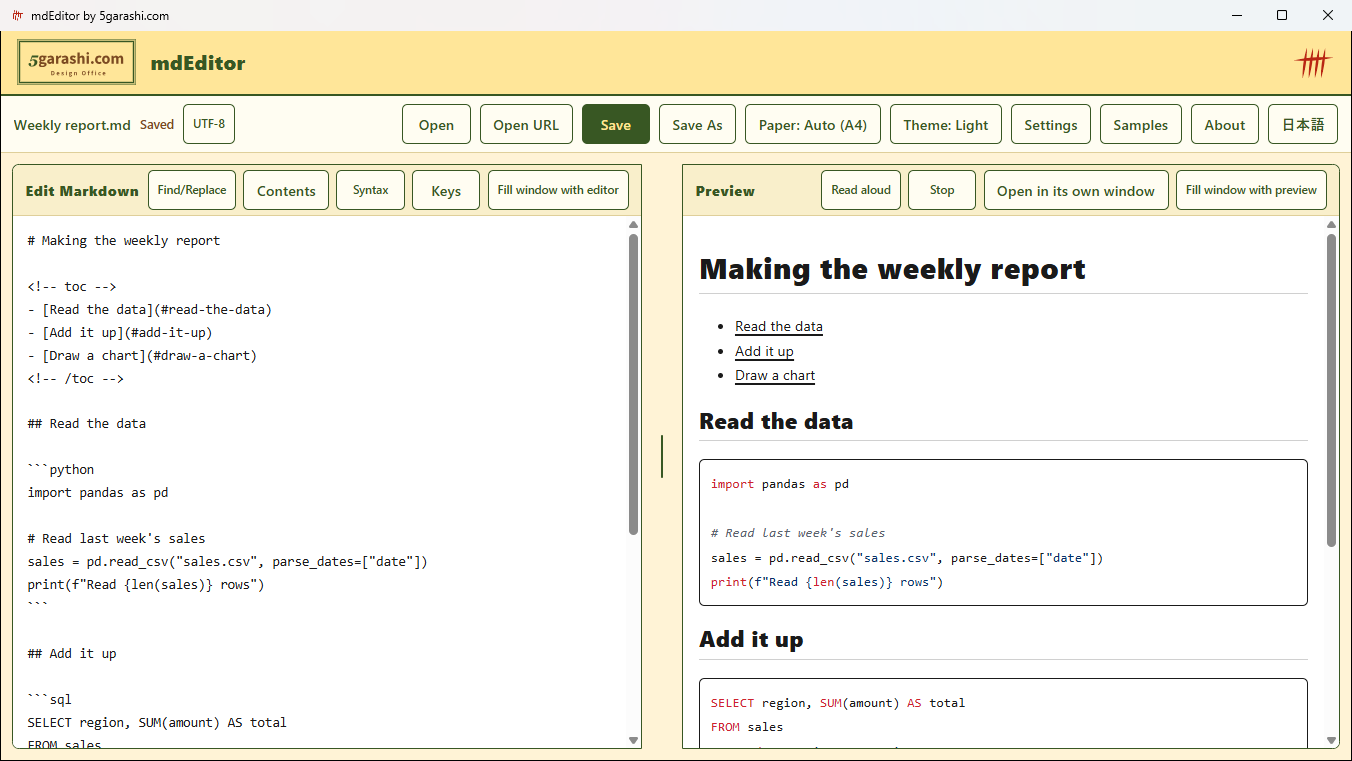
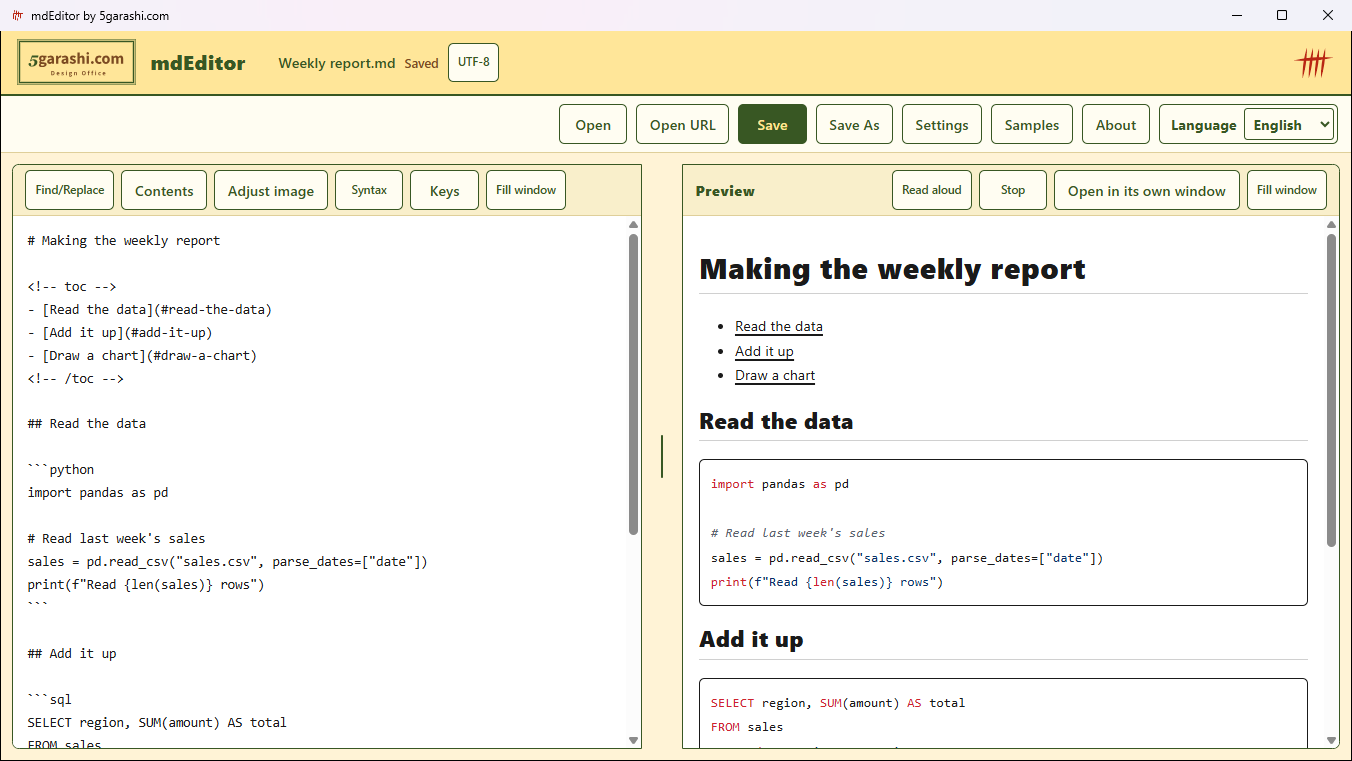
Retake screenshots in three languages and add zh-CN to the Store package
- docs/images: all screenshots retaken on the 1.0.15 screen (1366 x 768, 90% zoom),
  with Simplified Chinese versions (.zh-CN.png); 1-main now shows the 3D model of
  samples/diagram-test (21-1)
- Store manifest declares zh-CN; STORE-LISTING.md gains a Simplified Chinese section,
  1.0.15 items in What's new, and updated screenshot notes
- README.zh-CN.md uses the Chinese screenshots; 1-main captions mention the 3D model
- CHANGELOG notes the package language and the new screenshots

diff --git a/store/STORE-LISTING.md b/store/STORE-LISTING.md
@@ -1,6 +1,6 @@
 <!--
   File: STORE-LISTING.md
-  Description: Microsoft Store listing text (English and Japanese) and screenshot plan for mdEditor
+  Description: Microsoft Store listing text (English, Japanese, and Simplified Chinese) and screenshot plan for mdEditor
   Author: 5garashi.com Design Office
   Created: 2026-10-11
   License: MIT
@@ -53,21 +53,21 @@ Made for everyone
 Available in Japanese, English, and Simplified Chinese. Made by 5garashi.com Design Office. Open About in the app for the company, support, and privacy policy links.
 
 **What's new in this version:**
-- 3D models (text STL) turn with the mouse, and maps (GeoJSON, TopoJSON) are drawn offline. Allow it to load a detailed OpenStreetMap map.
-- GitHub-style Markdown: alerts, front matter shown as a list, math blocks, emoji short names, collapsible sections, and the HTML GitHub allows.
-- Videos in a document play in the preview.
+- Simplified Chinese: choose Japanese, English, or Chinese from the Language list.
+- New from clipboard: copy text or a picture in any app, press your key, and it opens as a new document.
+- Starts about twice as fast.
+- 3D models (text STL) turn with the mouse; maps (GeoJSON, TopoJSON) and Graphviz diagrams are drawn offline. Allow it to load a detailed OpenStreetMap map.
+- GitHub-style Markdown: alerts, front matter shown as a list, math blocks, emoji short names, collapsible sections, and the HTML GitHub allows. Videos in a document play too.
 - Code is colored for about 40 languages, and the colors stay in PDF, PNG, HTML, and Word.
 - Contents builds a table of contents from your headings; press it again to update.
-- Graphviz diagrams are drawn offline.
 - Open Word, HTML, web pages, e-mail, CSV, TSV, JSON, XML, Jupyter Notebooks, and images as Markdown.
-- Save As lists every format, including a ZIP for sharing: the document and its name_files folder, without files the document does not use.
+- Save As lists every format, including a ZIP for sharing the document with its name_files folder.
 - Drop or paste pictures into the editor.
-- Adjust image sets a picture's size and position (center, right, or with text flowing around it), written the way GitHub does.
-- A setting shows documents closer to GitHub, leaving out syntax only mdEditor has.
+- Adjust image sets a picture's size and position, written the way GitHub does.
+- A setting shows documents closer to GitHub.
 - Save As to another folder or name copies the name_files folder too and updates the links.
 - Drop a file on the editor to insert it, or outside to open it; Back to previous document returns to the one it replaced.
 - Internet images and videos load only when you allow them.
-- Choose the read-aloud language and voice.
 - mdEditor appears in Open with for the file types it supports.
 
 **Features (bullets):**
@@ -99,7 +99,7 @@ Available in Japanese, English, and Simplified Chinese. Made by 5garashi.com Des
 **Support contact:** https://github.com/5garashi/mdEditor/issues
 
 **Screenshots (1366 x 768, the Store minimum; English UI) with captions:**
-1. `docs/images/1-main.en.png` — Type Markdown on the left and the preview on the right updates at once, with diagrams, tables, and math.
+1. `docs/images/1-main.en.png` — Type Markdown on the left and the preview on the right updates at once. A 3D model written in STL turns when you drag it.
 2. `docs/images/2-dark.en.png` — Day and night palettes follow Windows, or choose one with the Theme button in Settings. Printing and PDF always use a white page.
 3. `docs/images/3-preview-window.en.png` — Put the preview on a second display to keep writing and reading apart. It scrolls with your editing.
 4. `docs/images/4-syntax.en.png` — Press F1 for the Markdown quick reference. Insert puts the example at the cursor.
@@ -165,21 +165,21 @@ The app's own logos (Start, taskbar, File Explorer) are in `store/assets/` and a
 日本語・英語・簡体字中国語に対応します。5garashi.com Design Office が作りました。会社紹介・サポート・プライバシーポリシーは、アプリの「このアプリについて」から開けます。
 
 **このバージョンの新機能:**
-- 3D モデル（テキスト形式の STL）をマウスで回して確かめられ、地図（GeoJSON・TopoJSON）をオフラインで描けます。許可すると、OpenStreetMap の詳しい地図も使えます。
-- GitHub と同じ書き方に対応しました（注意書き、項目の一覧として表示するフロントマター、数式のコードブロック、絵文字の短縮名、折りたたみ、GitHub が許している HTML）。
-- 文書の中の動画を、プレビューで再生できます。
+- 簡体字中国語に対応しました。「Language」の一覧で、日本語・英語・中国語を選べます。
+- 「クリップボードから新規作成」: ほかのアプリでテキストや画像をコピーしてから、設定したキーを押すと、新しい文書として開きます。
+- 起動がおよそ 2 倍速くなりました。
+- 3D モデル（テキスト形式の STL）をマウスで回して確かめられ、地図（GeoJSON・TopoJSON）と Graphviz の図をオフラインで描けます。許可すると、OpenStreetMap の詳しい地図も使えます。
+- GitHub と同じ書き方に対応しました（注意書き、項目の一覧として表示するフロントマター、数式のコードブロック、絵文字の短縮名、折りたたみ、GitHub が許している HTML）。文書の中の動画も再生できます。
 - 約 40 の言語のコードを色分けし、PDF・PNG・HTML・Word に保存しても色が残ります。
 - 「目次」ボタンで、見出しから目次を作れます。押し直すと新しくなります。
-- Graphviz の図をオフラインで描けます。
 - Word・HTML・Web ページ・メール・CSV・TSV・JSON・XML・Jupyter Notebook・画像を、Markdown として開けます。
-- 「名前を付けて保存」で、すべての形式を選べます。文書と「名前_files」フォルダーを、使っていないファイルを除いて 1 つにまとめる配布用 ZIP も作れます。
+- 「名前を付けて保存」で、すべての形式を選べます。文書と「名前_files」フォルダーを 1 つにまとめる配布用 ZIP も作れます。
 - 画像は、ドロップや貼り付けで文書に入ります。
-- 「画像の調整」で、画像の大きさと位置（中央、右、文章の回り込み）を、GitHub と同じ書き方で変えられます。
-- 設定で、GitHub での表示に近づけられます（mdEditor 独自の書き方を使わない）。
+- 「画像の調整」で、画像の大きさと位置を、GitHub と同じ書き方で変えられます。
+- 設定で、GitHub での表示に近づけられます。
 - 「名前を付けて保存」で別の場所や名前にすると、「名前_files」フォルダーも複製し、リンクを合わせます。
 - 編集画面にドロップすると入れ、外にドロップすると開きます。「前の文書に戻す」で、入れ替わる前の文書に戻れます。
 - インターネット上の画像と動画は、許可したときだけ読み込みます。
-- 読み上げの言語と音声を選べます。
 - 対応する形式のファイルで、「プログラムから開く」に mdEditor が出ます。
 
 **製品の機能（箇条書き）:**
@@ -207,7 +207,7 @@ The app's own logos (Start, taskbar, File Explorer) are in `store/assets/` and a
 **検索用語（7つまで）:** Markdown, マークダウン, エディタ, プレビュー, PDF, 数式, デュアルモニター
 
 **スクリーンショット（1366 x 768。Store の最小の大きさ。日本語の画面）と説明文:**
-1. `docs/images/1-main.ja.png` — 左に Markdown を書くと、右のプレビューにすぐ反映されます。図・表・数式も、そのまま表示します。
+1. `docs/images/1-main.ja.png` — 左に Markdown を書くと、右のプレビューにすぐ反映されます。STL で書いた 3D モデルも、ドラッグで回せます。
 2. `docs/images/2-dark.ja.png` — 昼と夜の配色は Windows の設定に合わせて切り替わり、「設定」の「表示」ボタンでも選べます。印刷と PDF は常に白地です。
 3. `docs/images/3-preview-window.ja.png` — プレビューを別のウィンドウにして 2 台目のディスプレイへ。書く画面と見る画面を分けられ、スクロールは編集と連動します。
 4. `docs/images/4-syntax.ja.png` — F1 で Markdown の書き方の一覧を表示します。「挿入」を押すと、カーソルの位置に例が入ります。
@@ -216,12 +216,107 @@ The app's own logos (Start, taskbar, File Explorer) are in `store/assets/` and a
 7. `docs/images/7-3d-model.ja.png` — STL で書いた 3D モデルを、ドラッグで回して確かめられます。インターネットにつながなくても表示します。
 8. `docs/images/8-map.ja.png` — 許可すると、地図を OpenStreetMap の詳しい地図の上に描きます。先頭の YAML は、項目と値の一覧になります。
 
+## 简体中文 (zh-CN)
+
+**产品名称:** mdEditor by 5garashi.com
+
+**简短说明:**
+只需输入文字，就能得到图表、公式和精美的 PDF。离线可用，没有广告。
+
+**说明:**
+
+一款边写边在旁边显示排版效果的 Markdown 编辑器。图表、公式和表格随写随显示，一键即可保存为 PDF。文档留在你的电脑中，没有广告，也不需要账户。
+
+写作和查看
+- 在左边输入，右边的预览立即更新。两边同步滚动。
+- 用几行文字就能画出流程图和甘特图（Mermaid）、Graphviz 图表和公式（KaTeX）。
+- 用鼠标旋转 3D 模型（文本格式的 STL），在简单的世界地图上绘制地图（GeoJSON、TopoJSON），全部离线完成。
+- 约 40 种语言的代码会着色显示，“目录”可以根据标题生成目录。
+- 支持与 GitHub 相同的写法：提示框、前置元数据、公式代码块、表情符号短名称、折叠等。文档中的视频也可以播放。
+- 可以把预览放到单独的窗口中，显示在第二个显示器上。它会一直显示正在编辑的那一行。
+- 也可以当作查看器：把预览扩展到填满窗口，不显示编辑区即可阅读。
+
+打开和保存
+- 保存为与预览外观完全相同的 PDF，包括图表和公式，纸张可选 A4 或 Letter。
+- 可以把 Word、HTML、网页、电子邮件（.eml）、CSV、TSV、JSON、XML、Jupyter Notebook 和图像作为 Markdown 打开。原文件不会被改写。
+- “另存为”还可以保存为 HTML、PNG、Word、CSV、TSV、JSON、Jupyter Notebook 和纯文本，以及包含文档和“名称_files”文件夹的用于分发的 ZIP。
+- 把图片拖放或粘贴到编辑区，图片会保存在文档旁边。
+- 刚接触 Markdown？打开内置的示例，或按 F1 一键插入示例。
+- 在任意应用中复制文本或图片后，按你设置的按键，即可作为新文档打开（从剪贴板新建）。
+
+保护你的工作
+- 即使写入中途出错，保存也不会损坏原文件。
+- 未保存的更改会自动备份，异常退出后可以恢复。
+- 能识别 UTF-8、GBK（简体中文 Windows）、Shift_JIS 和 EUC-JP，旧文件也能正确打开。
+
+安静、安心
+- 文档内容不会发送到任何地方。没有跟踪，没有账户，没有广告。
+- 网络上的图像、视频和详细地图，只有在你允许时才会加载。
+
+人人都好用
+- 所有操作都可以用键盘完成，快捷键可以更改。
+- 支持屏幕阅读器，并用电脑中的语音朗读文档。支持 BIZ UD 字体、文字大小和行距的调整、对比度主题和深色模式。
+
+支持日语、英语和简体中文。由 5garashi.com Design Office 制作。公司介绍、支持和隐私政策的链接，可以在应用的“关于此应用”中打开。
+
+**此版本的新功能:**
+- 支持简体中文。可以在“Language”列表中选择日语、英语或中文。
+- 从剪贴板新建：在任意应用中复制文本或图片后，按你设置的按键，即可作为新文档打开。
+- 启动速度提高约一倍。
+- 用鼠标旋转 3D 模型（文本格式的 STL），离线绘制地图（GeoJSON、TopoJSON）和 Graphviz 图表。允许后可以使用 OpenStreetMap 的详细地图。
+- 支持与 GitHub 相同的写法（提示框、显示为项目列表的前置元数据、公式代码块、表情符号短名称、折叠、GitHub 允许的 HTML）。文档中的视频也可以播放。
+- 约 40 种语言的代码会着色显示，保存为 PDF、PNG、HTML 和 Word 后颜色仍然保留。
+- “目录”根据标题生成目录，再按一次即可更新。
+- 可以把 Word、HTML、网页、电子邮件、CSV、TSV、JSON、XML、Jupyter Notebook 和图像作为 Markdown 打开。
+- “另存为”可以选择所有格式，也可以生成把文档和“名称_files”文件夹打包在一起的用于分发的 ZIP。
+- 图片可以通过拖放或粘贴放入文档。
+- “调整图像”可以按 GitHub 的写法更改图像的大小和位置。
+- 可以在设置中让显示效果接近 GitHub。
+- “另存为”到其他位置或名称时，“名称_files”文件夹也会复制，并调整链接。
+- 拖放到编辑区即可插入，拖放到编辑区以外即可打开；“返回上一个文档”可以回到被替换之前的文档。
+- 网络上的图像和视频只有在你允许时才会加载。
+- 对于支持的文件类型，“打开方式”中会列出 mdEditor。
+
+**产品功能（要点）:**
+- 边写边在旁边查看效果，滚动同步
+- 预览可放到第二个显示器上，跟随正在编辑的行
+- 也可当作查看器：预览填满窗口
+- 离线显示 Mermaid、Graphviz 图表和公式
+- 用鼠标旋转 3D 模型（STL）
+- 地图（GeoJSON），允许后可用 OpenStreetMap
+- 约 40 种语言的代码着色，PDF 和 Word 中也保留
+- 根据标题生成目录，一键更新
+- 与 GitHub 相同的提示框、前置元数据和折叠
+- 文档中的视频直接在预览中播放
+- 一键保存与预览外观相同的 PDF
+- 打开 Word、HTML、电子邮件、CSV、JSON、Jupyter Notebook 和图像
+- 保存为 HTML、PNG、Word、CSV、JSON、Jupyter Notebook、文本或 ZIP
+- 图片拖放或粘贴即可放入文档
+- 复制后按一个键，即可作为新文档打开
+- 安全保存，异常退出后自动恢复
+- 正确打开 UTF-8、GBK、Shift_JIS 和 EUC-JP 文件
+- 网络上的图像、视频和地图只在允许时加载
+- 没有广告、没有跟踪、不需要账户
+- 全部可用键盘操作，支持屏幕阅读器、朗读和深色模式
+
+**搜索词（最多 7 个）:** Markdown, Markdown编辑器, 预览, Mermaid, 图表, PDF, 双显示器
+
+**屏幕截图（1366 x 768，Store 的最小尺寸；简体中文界面）及说明:**
+1. `docs/images/1-main.zh-CN.png` — 在左边写 Markdown，右边的预览立即更新。用 STL 写的 3D 模型也可以拖动旋转。
+2. `docs/images/2-dark.zh-CN.png` — 白天和夜间的配色跟随 Windows 的设置，也可以在“设置”中用“显示”按钮选择。打印和 PDF 始终使用白色页面。
+3. `docs/images/3-preview-window.zh-CN.png` — 把预览放到第二个显示器上，写作和阅读分开进行。预览会跟随编辑滚动。
+4. `docs/images/4-syntax.zh-CN.png` — 按 F1 显示 Markdown 简明写法。按“插入”会把示例放到光标位置。
+5. `docs/images/5-save-as.zh-CN.png` — “另存为”可以保存为 PDF、HTML、PNG、Word、CSV、TSV、JSON、Jupyter Notebook、文本和用于分发的 ZIP。
+6. `docs/images/6-code-toc.zh-CN.png` — 写了语言名的代码会着色显示。“目录”会根据标题生成目录。
+7. `docs/images/7-3d-model.zh-CN.png` — 用 STL 写的 3D 模型可以拖动旋转。不需要连接互联网也能显示。
+8. `docs/images/8-map.zh-CN.png` — 允许后，地图会绘制在 OpenStreetMap 的详细地图上。开头的 YAML 显示为项目名和值的列表。
+
 ## Before you submit / 提出前の確認
 
 - Reserve the name in Partner Center and confirm it is available. Use the same spelling ("5garashi.com Design Office") in the Store, the app, and the website.
 - Replace the privacy or support links if the final URLs differ. The company URL in the app is `https://www.5garashi.com/`.
-- "Worldwide" distribution and "all languages" are different settings. The app supports Japanese, English, and Simplified Chinese (1.0.15) only. This listing has no Simplified Chinese (zh-CN) text yet; add one before choosing zh-CN as a listing language.
-- The screenshots are in `docs/images/` (1366 x 768 window). Screenshots 1-4 and 6-8 were taken with 1.0.12 (2026-10-18); screenshot 5 (Save As) was retaken with 1.0.14 (2026-10-19). In 1.0.14 the editor heading also has an Adjust image button, which screenshots 1-4 do not show. Retake them when the screen changes.
+- "Worldwide" distribution and "all languages" are different settings. The app supports Japanese, English, and Simplified Chinese (1.0.15) only. Since 1.0.15 the package declares ja-JP, en-US, and zh-CN, so Partner Center expects a listing in each of the three languages; the zh-CN text and its screenshots are above. The Chinese text has not been reviewed by a native speaker.
+- The screenshots are in `docs/images/` (1366 x 768 window, 90% zoom), in Japanese (`.ja`), English (`.en`), and Simplified Chinese (`.zh-CN`). All were retaken with 1.0.15 (2026-10-23) after the header and toolbar changed; screenshot 1 now shows the 3D model of samples/diagram-test (21-1). Retake them when the screen changes.
 - Screenshot 8 shows OpenStreetMap map tiles. Keep the credit "© OpenStreetMap contributors" visible; do not crop it out.
   スクリーンショット 8 には OpenStreetMap の地図が写っています。右下の「© OpenStreetMap contributors」を切り取らないでください。
 - Partner Center limits: What's new 1,500 characters, each feature 200 characters (up to 20), each screenshot caption 200 characters (up to 10 screenshots).

diff --git a/README.zh-CN.md b/README.zh-CN.md
@@ -49,39 +49,37 @@ tags: [markdown, windows, wpf, webview2]
 
 ## 截图
 
-以下截图为英文界面。界面语言为简体中文时，按钮和对话框的文字为中文。
+**边写边看结果** — 在左边写 Markdown，右边的预览会随输入更新，包括图表、表格、公式和可以拖动旋转的 3D 模型。
 
-**边写边看结果** — 在左边写 Markdown，右边的预览会随输入更新，包括图表、表格和公式。
-
-![在左边写 Markdown，右边的预览会随输入更新，包括图表、表格和公式。](docs/images/1-main.en.png)
+![在左边写 Markdown，右边的预览会随输入更新，包括图表、表格、公式和可以拖动旋转的 3D 模型。](docs/images/1-main.zh-CN.png)
 
 **深色模式** — 跟随 Windows 的设置，也可以用“设置”中的“显示”按钮（或 Ctrl+Shift+T）选择白天或夜间。打印和 PDF 始终使用白色页面。
 
-![跟随 Windows 的设置，也可以用“设置”中的“显示”按钮（或 Ctrl+Shift+T）选择白天或夜间。打印和 PDF 始终使用白色页面。](docs/images/2-dark.en.png)
+![跟随 Windows 的设置，也可以用“设置”中的“显示”按钮（或 Ctrl+Shift+T）选择白天或夜间。打印和 PDF 始终使用白色页面。](docs/images/2-dark.zh-CN.png)
 
 **在单独窗口中显示预览** — 把预览放到第二个显示器上，写作和阅读分开进行。预览会跟随编辑滚动。
 
-![把预览放到第二个显示器上，写作和阅读分开进行。预览会跟随编辑滚动。](docs/images/3-preview-window.en.png)
+![把预览放到第二个显示器上，写作和阅读分开进行。预览会跟随编辑滚动。](docs/images/3-preview-window.zh-CN.png)
 
 **Markdown 写法一目了然** — Markdown 简明写法（F1）。按“插入”会把示例放到光标位置。
 
-![Markdown 简明写法（F1）。按“插入”会把示例放到光标位置。](docs/images/4-syntax.en.png)
+![Markdown 简明写法（F1）。按“插入”会把示例放到光标位置。](docs/images/4-syntax.zh-CN.png)
 
 **保存为多种格式** — “另存为”可以保存为 Markdown、文本、PDF、HTML、PNG、Word、CSV、TSV、JSON、Jupyter Notebook，或用于分发的 ZIP（文档和“名称_files”文件夹）。也可以打开 Word、HTML、CSV、电子邮件、Jupyter Notebook 等文件。
 
-![“另存为”可以保存为 Markdown、文本、PDF、HTML、PNG、Word、CSV、TSV、JSON、Jupyter Notebook，或用于分发的 ZIP（文档和“名称_files”文件夹）。也可以打开 Word、HTML、CSV、电子邮件、Jupyter Notebook 等文件。](docs/images/5-save-as.en.png)
+![“另存为”可以保存为 Markdown、文本、PDF、HTML、PNG、Word、CSV、TSV、JSON、Jupyter Notebook，或用于分发的 ZIP（文档和“名称_files”文件夹）。也可以打开 Word、HTML、CSV、电子邮件、Jupyter Notebook 等文件。](docs/images/5-save-as.zh-CN.png)
 
 **代码着色和目录** — 写了语言名的代码会着色显示。“目录”会根据标题生成目录。
 
-![写了语言名的代码会着色显示。“目录”会根据标题生成目录。](docs/images/6-code-toc.en.png)
+![写了语言名的代码会着色显示。“目录”会根据标题生成目录。](docs/images/6-code-toc.zh-CN.png)
 
 **3D 模型** — 用 STL 写的 3D 模型可以拖动旋转。不需要连接互联网也能显示。
 
-![用 STL 写的 3D 模型可以拖动旋转。不需要连接互联网也能显示。](docs/images/7-3d-model.en.png)
+![用 STL 写的 3D 模型可以拖动旋转。不需要连接互联网也能显示。](docs/images/7-3d-model.zh-CN.png)
 
 **地图和前置元数据** — 经你同意后，GeoJSON 地图会绘制在 OpenStreetMap 的详细地图上。开头的 YAML 前置元数据显示为项目名和值的列表。
 
-![经你同意后，GeoJSON 地图会绘制在 OpenStreetMap 的详细地图上。开头的 YAML 前置元数据显示为项目名和值的列表。](docs/images/8-map.en.png)
+![经你同意后，GeoJSON 地图会绘制在 OpenStreetMap 的详细地图上。开头的 YAML 前置元数据显示为项目名和值的列表。](docs/images/8-map.zh-CN.png)
 
 ## 安装
 

diff --git a/CHANGELOG.md b/CHANGELOG.md
@@ -24,6 +24,7 @@ The version number lives in [VERSION](./VERSION). Add each new version at the to
 - 起動を速くした（この PC で、起動してから使えるようになるまで約 4.3〜4.8 秒 → 約 2.1〜2.2 秒）。画面の中の表示（アプリ自身のファイルだけを読む `mdeditor.local`）を Microsoft Defender SmartScreen に確かめさせるのをやめた（毎回約 2 秒待っていた。Web のリンクはこれまでどおりブラウザーで開く）。Mermaid と KaTeX は、図や数式のある文書を初めて表示するときに読み込む。発行するアプリは事前にコンパイルする（ReadyToRun。アプリのファイルは大きくなる）。
 - 編集欄の見出しの「Markdown を編集」を画面から外し（読み上げソフトには伝える）、ボタンを左に寄せて 1 行に収まりやすくした。「編集画面をウィンドウ全体に表示」「プレビューをウィンドウ全体に表示」のボタンの文字を「ウィンドウ全体に表示」に短くした（読み上げソフトには、どちらの欄かを含めた元の名前を伝える）。
 - 画面上部を詰めた。文書名・保存の状態・文字コードを、ロゴの段（ロゴタイプとシンボルマークの間。どちらからも十分に離す）に移した。「表示」（表示テーマ）と「用紙」のボタンは「設定」の中の「表示テーマと PDF の用紙」に移した（Ctrl+Shift+T と Ctrl+Shift+A はこれまでどおり）。幅 1262 px（倍率 90%）の画面で、ボタンが 1 行に収まる。狭い画面では、文書名はロゴの段の 2 行目に回る。
+- Microsoft Store のパッケージに簡体字中国語（zh-CN）を足し、Store の掲載文に中国語の節を足した。スクリーンショット（`docs/images`）を今の画面で撮り直し、中国語版（`.zh-CN.png`）を足した。1 枚目は 3D モデルの画面にした。
 - 画面全体の表示倍率の初期値を 90% にした。「初期値（90%）に戻す」と Ctrl + 0 も 90% に戻す。倍率を変えて保存している場合は、その倍率のまま。
 - 「このアプリについて」の「作品・ほかのアプリ」のリンクを表示しないようにした。
 
@@ -37,6 +38,7 @@ The version number lives in [VERSION](./VERSION). Add each new version at the to
 - Faster startup (on this PC, from launch to ready: about 4.3-4.8 s to about 2.1-2.2 s). The app's own page (`mdeditor.local`, which reads only the app's files) is no longer checked by Microsoft Defender SmartScreen, which held up every launch by about 2 seconds; web links still open in the browser. Mermaid and KaTeX load the first time a document with a diagram or math is shown. Published builds are compiled ahead of time (ReadyToRun; the app files are larger).
 - The editor heading no longer shows "Edit Markdown" on screen (screen readers still get it), and its buttons start at the left, so they fit on one line more often. The "Fill window with editor" and "Fill window with preview" buttons now read just "Fill window" (screen readers still get the full name, with the pane).
 - A slimmer top of the window. The file name, save state, and text encoding moved into the header, between the logotype and the symbol mark (well clear of both). The Theme and Paper buttons moved into Settings under "Theme and PDF paper" (Ctrl+Shift+T and Ctrl+Shift+A work as before). At 1262 px (90% zoom) the toolbar fits on one line; on narrow screens the file name takes a second line in the header.
+- The Microsoft Store package declares Simplified Chinese (zh-CN), and the Store listing has a Chinese section. The screenshots (`docs/images`) were retaken on the current screen, with Chinese versions added (`.zh-CN.png`); the first one now shows a 3D model.
 - The whole window now starts at 90% zoom. Reset to default (90%) and Ctrl + 0 go back to 90%. A zoom level you saved before stays as it is.
 - About no longer shows the Works and other apps link.
 

diff --git a/README.md b/README.md
@@ -49,9 +49,9 @@ An editor that shows the formatted result right beside the Markdown you are writ
 
 ## Screenshots
 
-**See the result as you write** — Write Markdown on the left and the preview on the right updates as you type, with diagrams, tables, and math.
+**See the result as you write** — Write Markdown on the left and the preview on the right updates as you type, with diagrams, tables, math, and 3D models you turn by dragging.
 
-![Write Markdown on the left and the preview on the right updates as you type, with diagrams, tables, and math.](docs/images/1-main.en.png)
+![Write Markdown on the left and the preview on the right updates as you type, with diagrams, tables, math, and 3D models you turn by dragging.](docs/images/1-main.en.png)
 
 **Dark mode** — Follows the Windows setting, or choose day or night with the Theme button in Settings (or Ctrl+Shift+T). Printing and PDF always use a white page.
 
